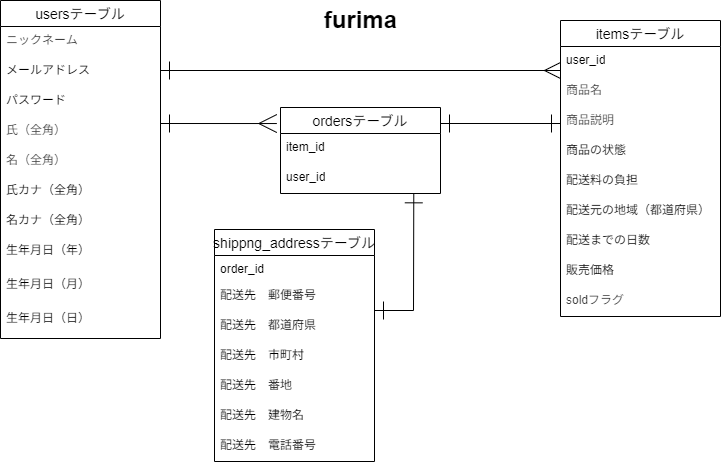
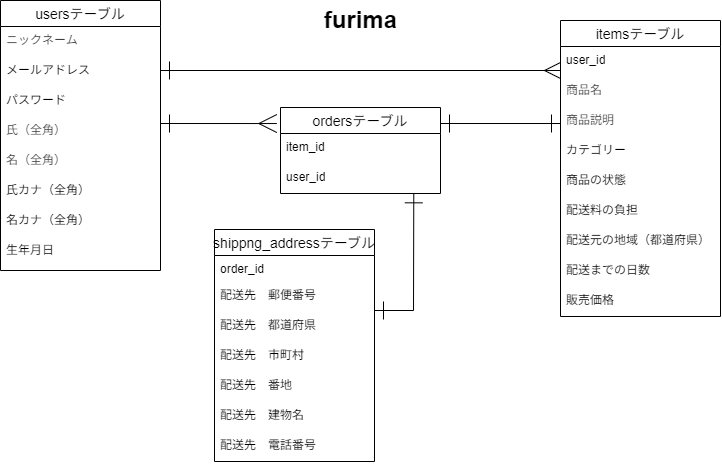
指摘箇所の修正

diff --git a/README.md b/README.md
@@ -11,9 +11,7 @@
 | last_name          | string  | null: false               |
 | kana_family_name   | string  | null: false               |
 | kana_last_name     | string  | null: false               |
-| birth_year_id      | integer | null: false               |
-| birth_month_id     | integer | null: false               |
-| birth_day_id       | integer | null: false               |
+| birth_date         | date    | null: false               |
 
 ### Association
 
@@ -21,34 +19,30 @@
 - has_many :orders
 - has_one :shipping_address
 
-- belongs_to_active_hash :birth_year
-- belongs_to_active_hash :birth_month
-- belongs_to_active_hash :birth_day
-
-
 ## items テーブル
 
 | Column                 | Type        | Options                        |
 | ---------------------  | ----------  | ------------------------------ |
 | item_title             | string      | null: false                    |
 | item_description       | text        | null: false                    |
+| category_id            | integer     | null: false                    |
 | item_condition_id      | integer     | null: false                    |
 | shipping_fee_payer_id  | integer     | null: false                    |
 | prefecture_id          | integer     | null: false                    |
-| shipping_days_id       | integer     | null: false                    |
+| shipping_day_id        | integer     | null: false                    |
 | sales_price            | integer     | null: false                    |
 | user                   | references  | null: false, foreign_key: true |
-| is_sold                | boolean     | null: false, default: false    |
 
 ### Association
 
 - belongs_to :user  # 出品者
 - has_one :order    # 1商品につき1つの注文
 
+- belongs_to_active_hash :category
 - belongs_to_active_hash :item_condition
 - belongs_to_active_hash :shipping_fee_payer
 - belongs_to_active_hash :prefecture
-- belongs_to_active_hash :shipping_days
+- belongs_to_active_hash :shipping_day
 
 ## orders テーブル
 
@@ -79,4 +73,3 @@
 - belongs_to :order 
 
 - belongs_to_active_hash :prefecture
-
